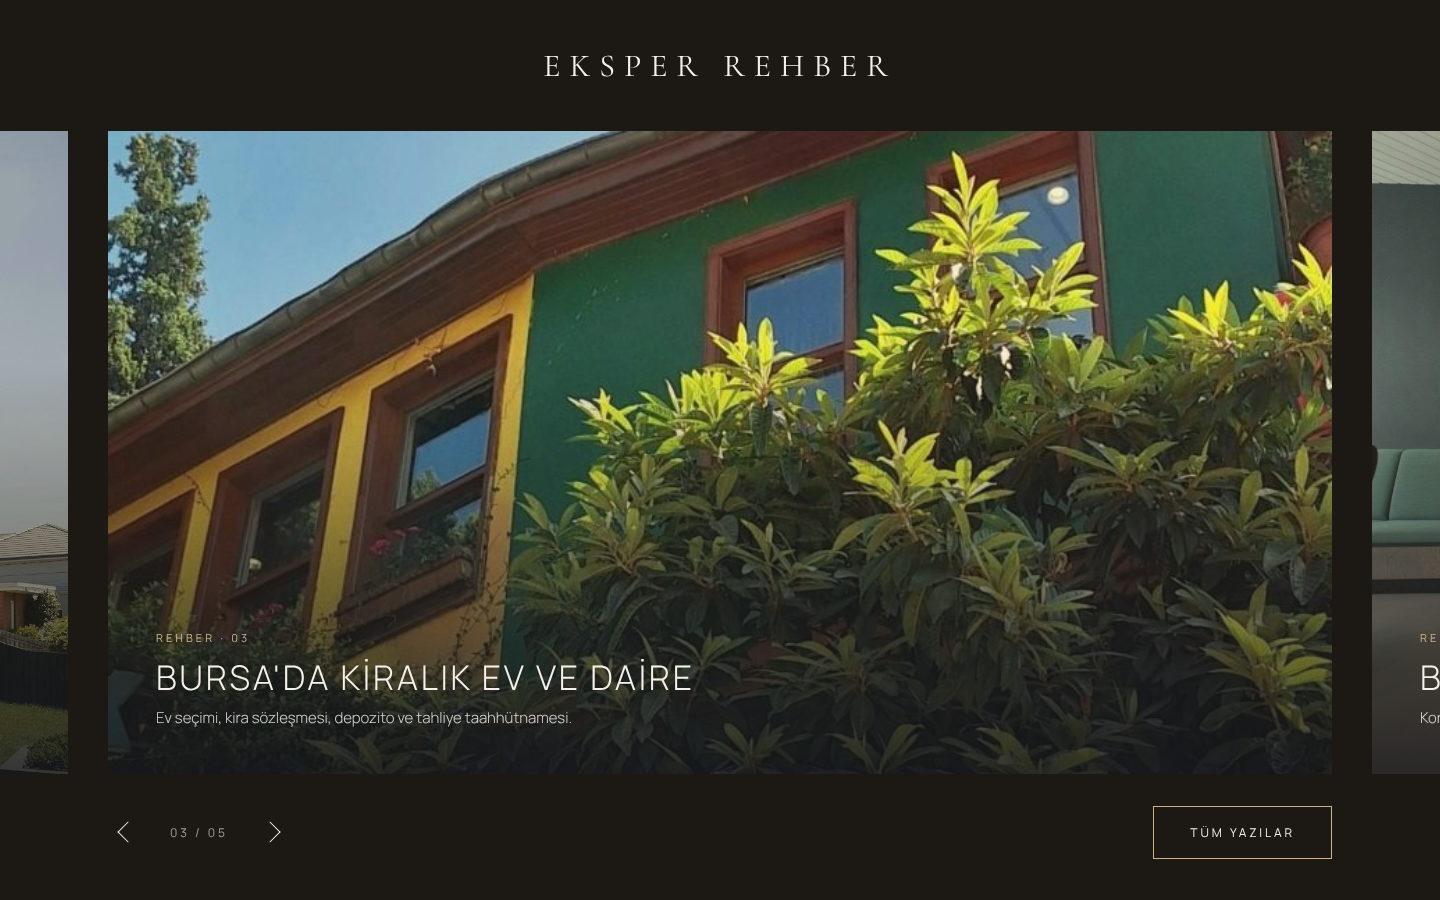
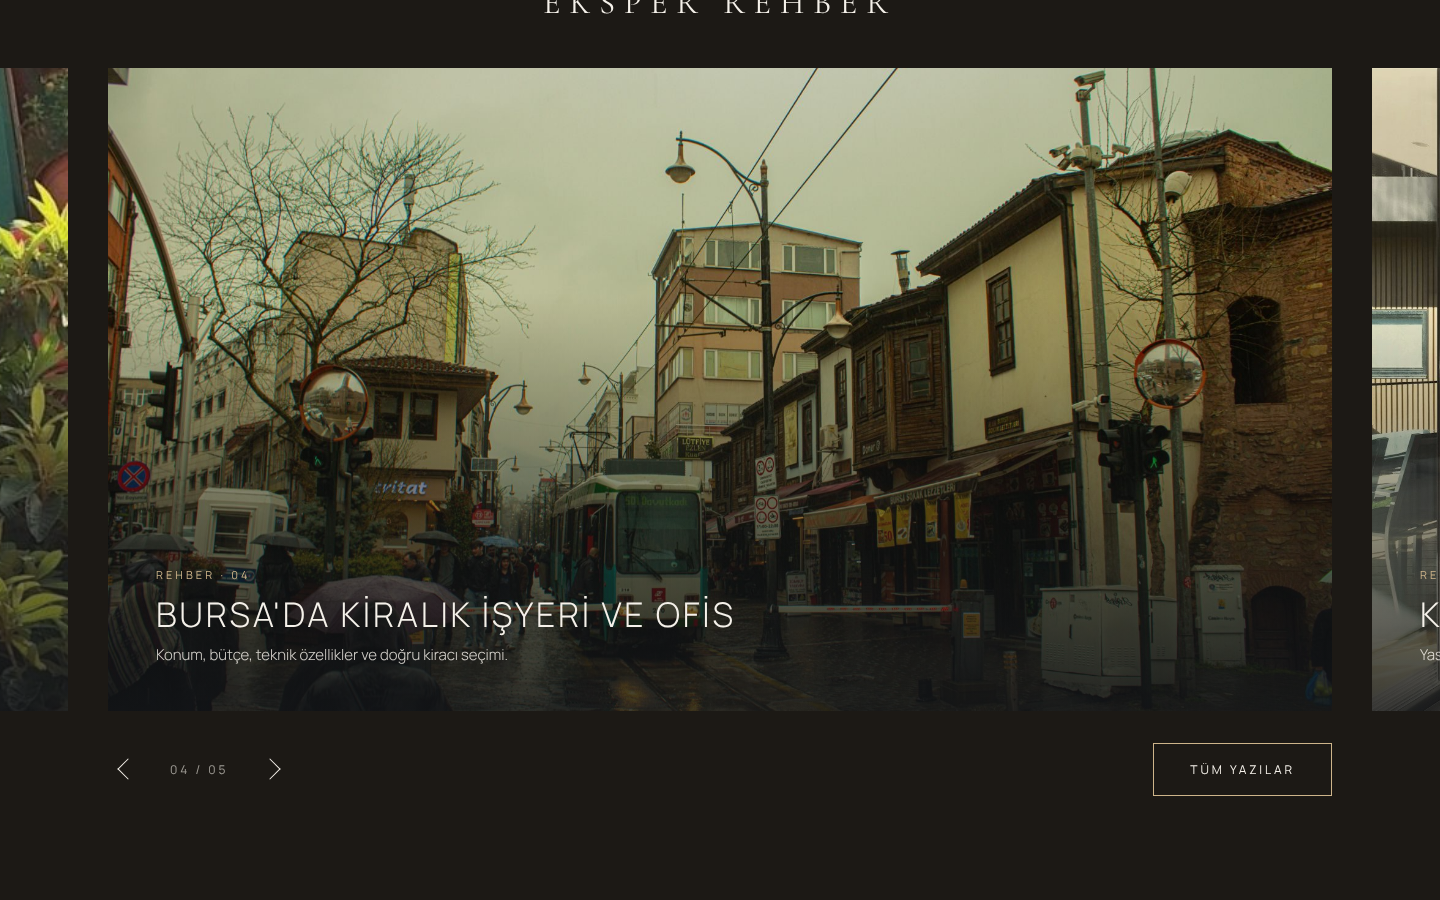
Bursa fotoğrafları: portföy bölümü ve kiralık işyeri rehberi
Claude-Session: https://claude.ai/code/session_01RpRroQoF4BRD7ftTEzAbsX

diff --git a/index.html b/index.html
@@ -368,7 +368,7 @@
         <div class="cap"><div class="k">Rehber · 03</div><h3>Bursa'da kiralık ev ve daire</h3><p>Ev seçimi, kira sözleşmesi, depozito ve tahliye taahhütnamesi.</p></div>
       </a>
       <a class="slide" href="https://www.eksperbursaemlak.com/bursa-kiralik-isyeri-ve-bursa-kiralik-ofis/" target="_blank" rel="noopener">
-        <img src="img/stok/1497366216548-37526070297c.jpg" alt="" loading="lazy">
+        <img src="img/bursa-tramvay.jpg" alt="" loading="lazy">
         <div class="cap"><div class="k">Rehber · 04</div><h3>Bursa'da kiralık işyeri ve ofis</h3><p>Konum, bütçe, teknik özellikler ve doğru kiracı seçimi.</p></div>
       </a>
       <a class="slide" href="https://www.eksperbursaemlak.com/kiraciyi-nasil-cikarabilirim/" target="_blank" rel="noopener">
@@ -383,7 +383,7 @@
 </section>
 
 <section class="portfolio" id="ilanlar">
-  <img src="img/stok/1600210492486-724fe5c67fb0.jpg" alt="" loading="lazy">
+  <img src="img/bursa-sokak.jpg" alt="" loading="lazy">
   <div class="wrap rv">
     <div class="eyebrow">Portföy</div>
     <h2>Güncel ilanlarımız <em>sahibinden.com</em>'da</h2>
